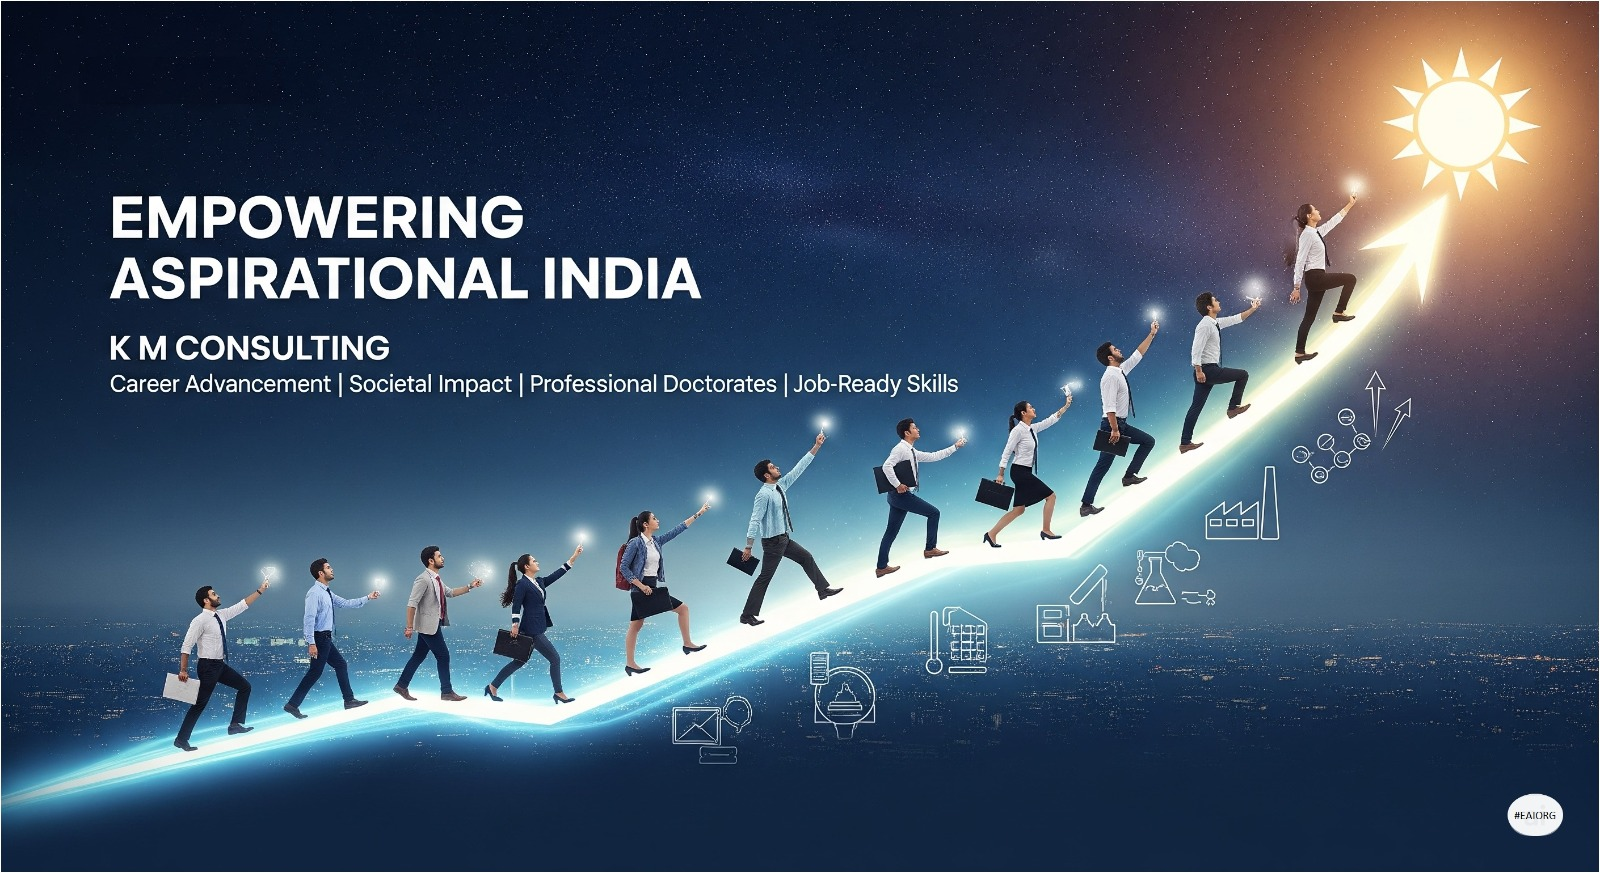
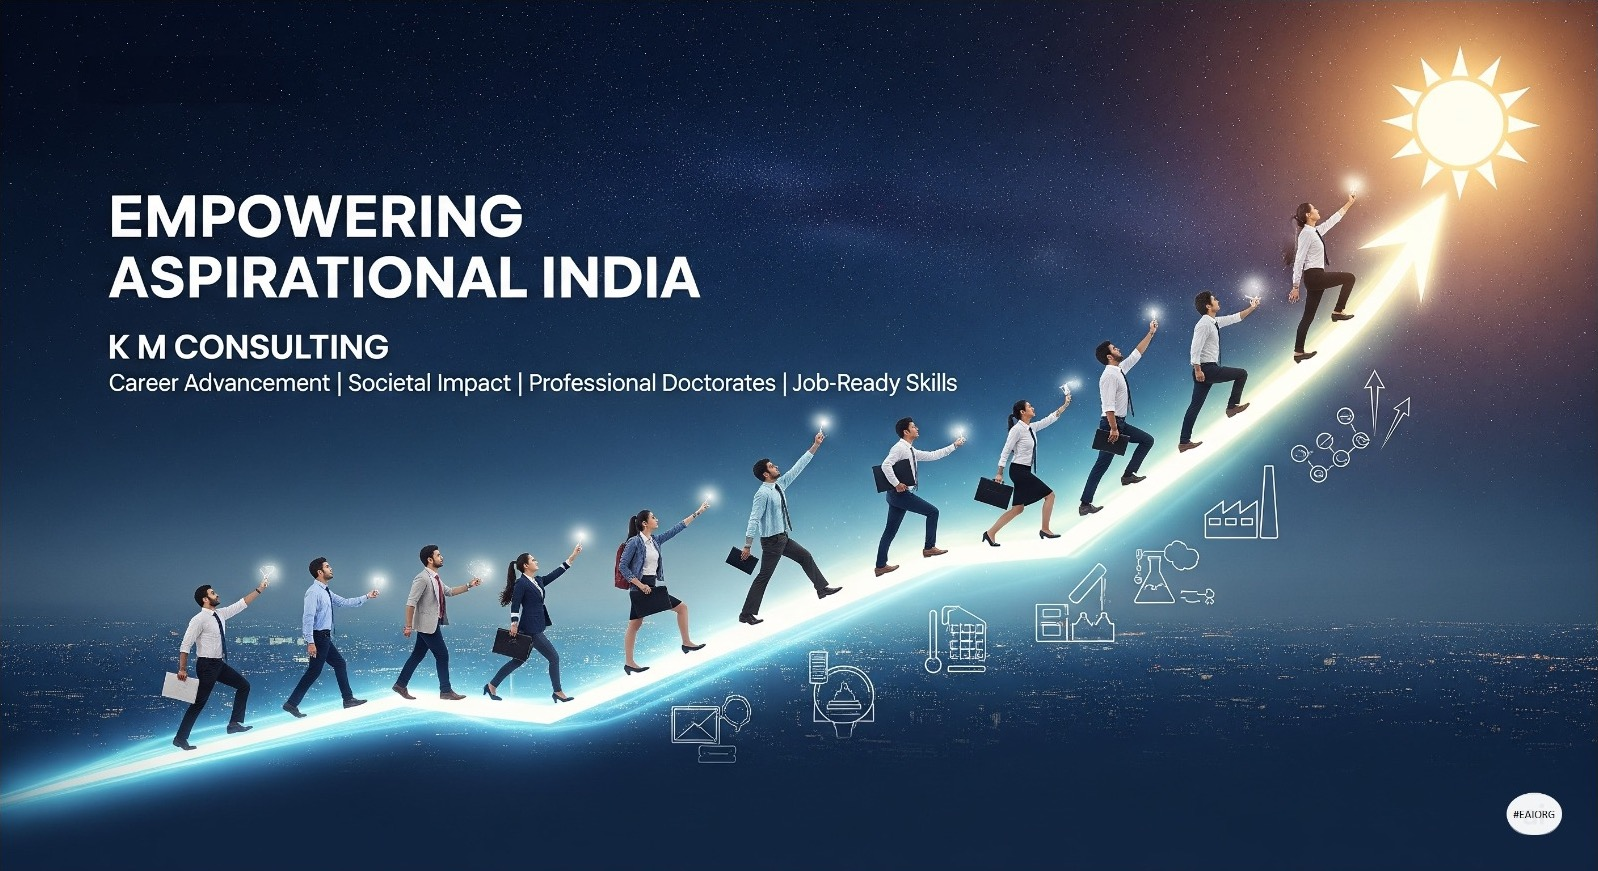
Fix mobile hero image border

diff --git a/index.html b/index.html
@@ -1767,7 +1767,7 @@
         .hero::before {
           background:
             linear-gradient(180deg, rgba(3, 12, 26, 0) 0%, rgba(3, 12, 26, 0) 44%, rgba(3, 12, 26, 0.92) 100%),
-            url("assets/hero.jpeg") center 68px / 100% auto no-repeat;
+            url("assets/hero.jpeg") center 68px / calc(100% + 4px) auto no-repeat;
           background-color: #06172c;
         }
 
